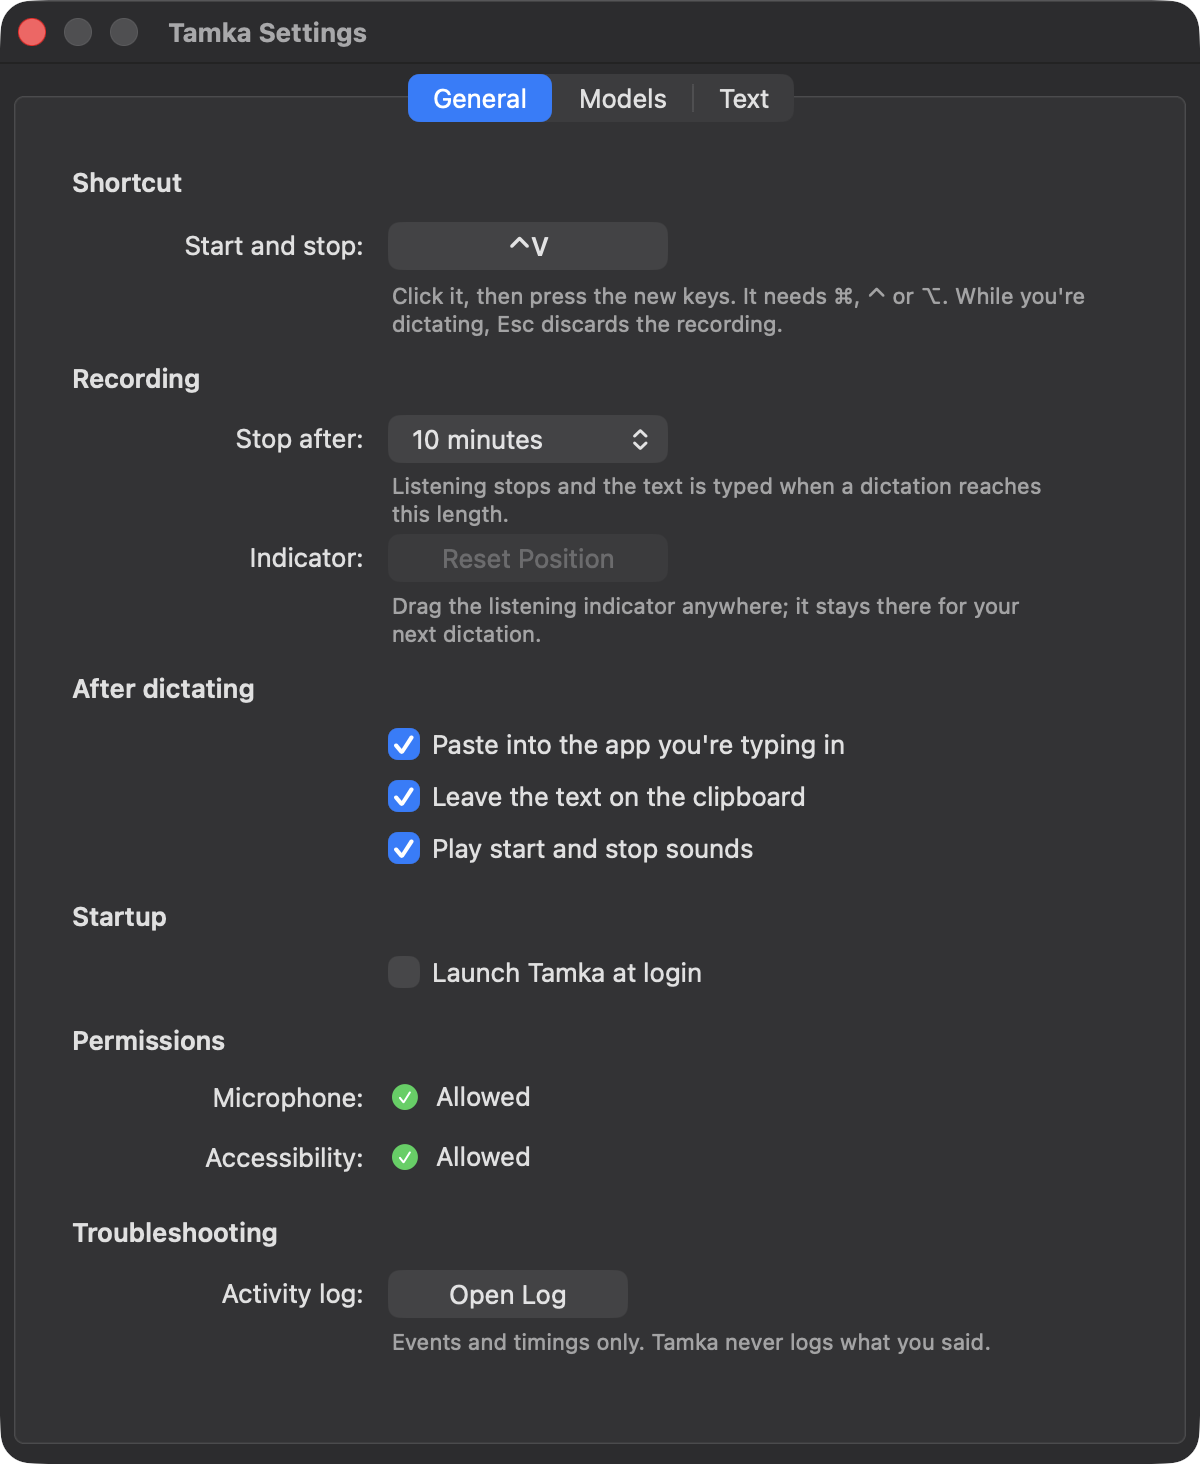
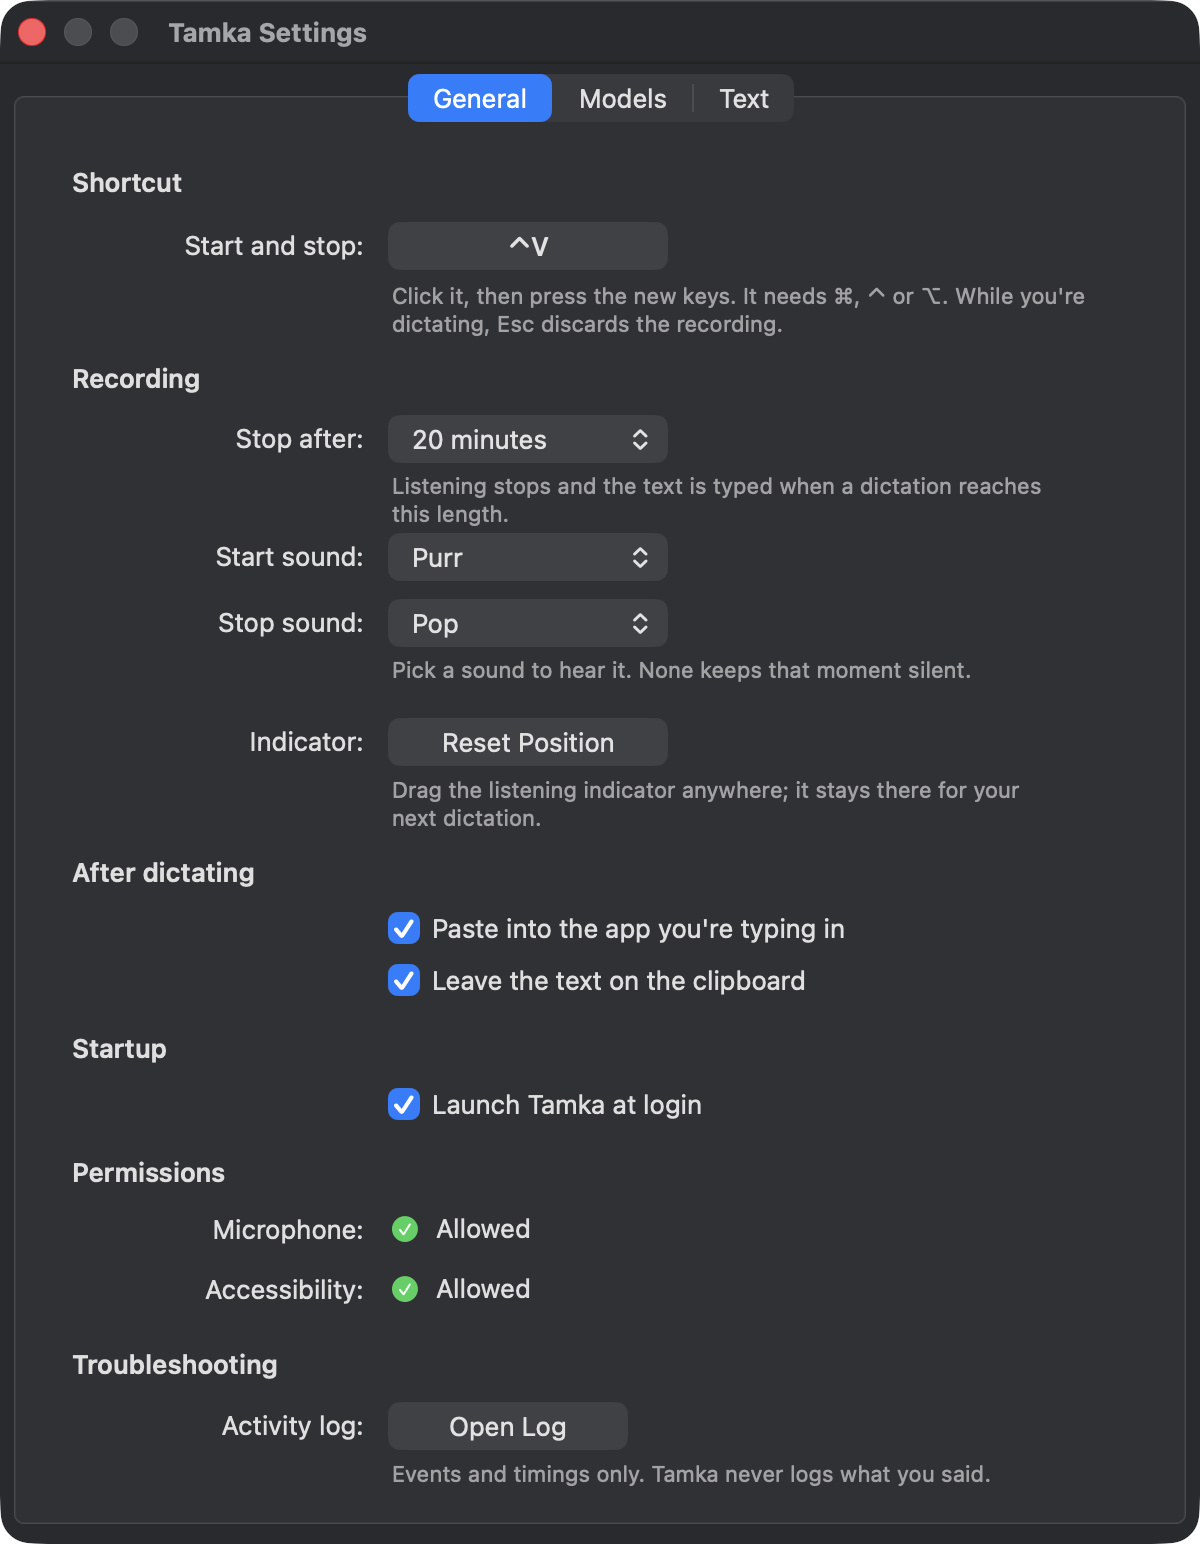
Make ⌃V the default shortcut; refresh the README images
- New installs dictate with ⌃V; a saved shortcut is kept.
- Settings › General screenshot shows the start and stop sound pickers.
- The showcase is rendered by the shared compositor (915 KB instead of
  2.1 MB), which also writes the social preview.

diff --git a/src/settings.rs b/src/settings.rs
@@ -54,7 +54,7 @@ pub struct Settings {
 impl Default for Settings {
     fn default() -> Self {
         Settings {
-            shortcut: Shortcut { key: keys::vk::V, mods: keys::OPTION },
+            shortcut: Shortcut { key: keys::vk::V, mods: keys::CONTROL },
             engine: "parakeet ultra".into(),
             numbers_as_digits: false,
             keep_on_clipboard: true,
@@ -182,7 +182,7 @@ mod tests {
         let s: Settings = serde_json::from_str(r#"{"engine": "parakeet v2"}"#).unwrap();
         assert_eq!(s.engine, "parakeet v2");
         assert!(s.keep_on_clipboard);
-        assert_eq!(s.shortcut, Shortcut { key: keys::vk::V, mods: keys::OPTION });
+        assert_eq!(s.shortcut, Shortcut { key: keys::vk::V, mods: keys::CONTROL });
         let text = serde_json::to_string(&s).unwrap();
         let back: Settings = serde_json::from_str(&text).unwrap();
         assert_eq!(back.find_replace, s.find_replace);

diff --git a/src/paste.rs b/src/paste.rs
@@ -83,7 +83,7 @@ pub fn deliver(text: &str, settings: &Settings) -> Outcome {
     Outcome::Pasted
 }
 
-/// ⌥ from ⌥V may still be held; pressing ⌘V while it is would send ⌥⌘V.
+/// The shortcut's modifier (⌃ from ⌃V) may still be held; pressing ⌘V while it is would send ⌃⌘V.
 fn wait_for_modifiers_up(max: Duration) {
     let held = CGEventFlags::MaskCommand | CGEventFlags::MaskAlternate | CGEventFlags::MaskControl | CGEventFlags::MaskShift;
     let until = Instant::now() + max;

diff --git a/src/main.rs b/src/main.rs
@@ -1,4 +1,4 @@
-//! Tamka: dictation for Apple silicon Macs. Press ⌥V, speak, press ⌥V again, and
+//! Tamka: dictation for Apple silicon Macs. Press ⌃V, speak, press ⌃V again, and
 //! the text is pasted where you're typing. Speech runs on the Neural Engine
 //! (Parakeet via FluidAudio) in a helper process; this app is the menu-bar shell.
 

diff --git a/src/app.rs b/src/app.rs
@@ -1,5 +1,5 @@
 //! App lifecycle, the menu-bar item, and the dictation state machine:
-//! idle → (⌥V) recording → (⌥V) transcribing → paste → idle. Esc cancels a recording.
+//! idle → (⌃V) recording → (⌃V) transcribing → paste → idle. Esc cancels a recording.
 
 use std::cell::{Cell, RefCell};
 use std::sync::Mutex;

diff --git a/src/hotkey.rs b/src/hotkey.rs
@@ -1,5 +1,5 @@
 //! Global shortcuts via Carbon (`global-hotkey`). No Accessibility permission needed.
-//! ⌥V toggles dictation; Esc is claimed only while recording, to cancel.
+//! ⌃V (by default) toggles dictation; Esc is claimed only while recording, to cancel.
 
 use std::cell::RefCell;
 use std::sync::atomic::{AtomicU32, Ordering};

diff --git a/README.md b/README.md
@@ -37,8 +37,8 @@ Before typing, Tamka removes "um" and "uh", collapses stutters, and turns spoken
 ## Dictating
 
 1. Click where the text should go: an email, a chat, a code editor or a search box.
-2. Press **⌥V** and speak. A small indicator shows that Tamka is listening, and for how long.
-3. Press **⌥V** again. Tamka types what you said at the cursor and keeps a copy on the clipboard.
+2. Press **⌃V** and speak. A small indicator shows that Tamka is listening, and for how long.
+3. Press **⌃V** again. Tamka types what you said at the cursor and keeps a copy on the clipboard.
 
 Press **Esc** while Tamka is listening to throw the recording away.
 
@@ -48,7 +48,7 @@ Press **Esc** while Tamka is listening to throw the recording away.
   <img src="docs/images/transcribing.png" width="147" alt="The indicator while transcribing">
 </p>
 
-⌥V is the default shortcut. You can pick any combination that includes ⌘, ⌃ or ⌥ in **Settings › General**.
+⌃V is the default shortcut. You can pick any combination that includes ⌘, ⌃ or ⌥ in **Settings › General**.
 
 ## Features
 
